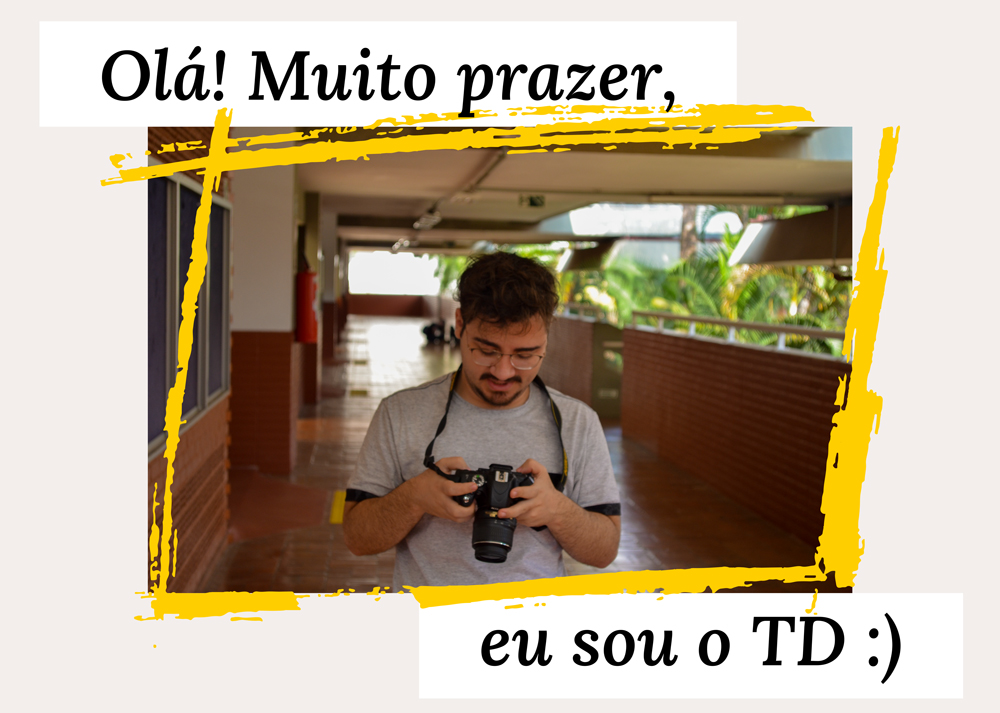
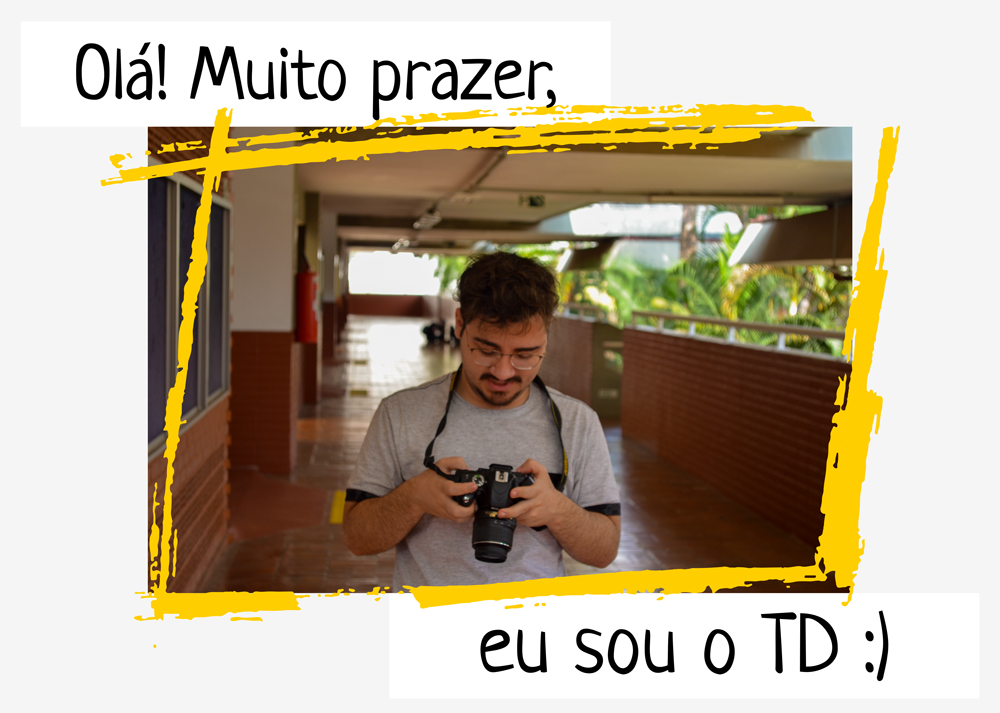
portfolio semi pronto para envio

Changed region(s): [[0.062, 0.0617, 0.682, 0.1851], [0.465, 0.8331, 0.899, 0.9565]]

diff --git a/layouts/portfolio-pt-br/index.html b/layouts/portfolio-pt-br/index.html
@@ -66,6 +66,7 @@
 
         <!-- ABOUT -->
         <div id="container-sobre">
+            <img src="/images/TD-Vadilho.jpg" alt="Foto do TD Vadilho, tirada por Bruno Scandolara">
             {{ .Content }}
         </div>
 
@@ -198,6 +199,7 @@
         document.getElementById("go-to-contact").classList.remove("active-menu");
     }
 
+
     /* SENDING MESSAGE */
     let flagOptionsContato = false;
     let invertArrow = function(){
@@ -276,69 +278,143 @@
         })
     })
 
-    //CRIANDO MIOLO
-    // Criando o botão prev 
-    let openProject = `<div id='container-openProject-and-arrows'>` 
-        + `<div id="container-prev-button-gallery-ilustracoes" onclick="changeSlideProj(-1)">
-            <div id="prev-button-gallery-ilustracoes">
-                <img src="/images/menu/prev-icon.png" alt="close" style='`+ naturalcoloricons +`'">
-            </div>
-        </div><div id="openProject">`
+    /* CONSTRUINDO O OPEN PROJECT */
+    let openLink = function(link){ //Abrir links do projeto (botões e hiperlinks chamam essa função)
+        window.open(link);
+    }
 
-    // Inserindo o conteúdo    
-    let itens = JSON.parse(document.getElementById(id).getAttribute('itens'));
-    for (let item of itens){
-        if (item.type == 'firstimage'){
-            openProject += '<div id="first-image"><img src="' + item.src + '" max-width="100%"  alt="'+ item.alt +'"  style="display:block; object-fit: contain; margin:'+item.margin+'" class="snackZoom '+ item.class +'" id="snackZoomId"/></div>'
+    window.addEventListener('load', ()=> { //Checa se já entrou na página com algum ID aberto
+        const id = new URLSearchParams(window.location.search).get('id'); 
+        if(id) {
+            abrirproj('', id);
         }
-        if (item.type == 'image'){
-            openProject += '<img src="' + item.src + '" max-width="100%"  alt="'+ item.alt +'"  style="display:block; object-fit: contain; margin:'+item.margin+'" class="snackZoom '+ item.class +'" id="snackZoomId"/>'
-        }
-        if (item.type == 'imageSide'){
-            openProject += '<div class="imagesSideBySide" margin:"'+item.margin+' column-gap:' + item.columngap +'">'
-            for(i=0; i < item.src.length; i++){
-                openProject += '<img src="' + item.src[i] + '" alt="'+ item.alt[i] +'"  style="display:block; object-fit: contain;margin-top:'+ item.imgmargintop[i] +'" class="snackZoom ' + item.class + '" id="snackZoomId"/>';
-            }
-            openProject += '</div>'
-        }
-        if (item.type == 'imagebuythis'){
-            openProject += '<img src="' + item.src + '" max-width="100%"  alt="'+ item.alt +'"  style="display:block; object-fit: contain; margin:'+item.margin+'; filter:'+item.filter+'" class="snackZoom '+ item.class +'" id="snackZoomId" onclick="openLink(`'+ lojalink +'`);"/>'
-        }
-        if (item.type == 'video') {
-            openProject += '<div style="margin:'+ item.margin +';" class="iframecontainer" id="snackZoomId"><iframe src="' + item.src + '" alt="' + item.alt + '" allow="accelerometer; autoplay; clipboard-write; encrypted-media; gyroscope; picture-in-picture; web-share" frameorder="0" vspace="0" hspace="0" marginwidth="0" marginheight="0" width="100%" style="margin: 0 0 0 0" frameBorder="0" scrolling="no" style="border: 0px" allowfullscreen></iframe></div>'
-        }
-        if(item.type == 'textleft'){
-            openProject += '<div class="container-text-inside-proj-left"><p class="'+ item.class +'"; style="color:'+ item.textcolor + '!important; margin:'+ item.margin +';text-align:'+ item.textalign +' !important' +';font-style:'+ item.fontstyle +' !important">'+ item.text +'</p></div>'
-        }
-        if(item.type == 'textcenter'){
-            openProject += '<div class="container-text-inside-proj-center"><p class="'+ item.class +'"; style="color:'+ item.textcolor + '!important; margin:'+ item.margin +';text-align:'+ item.textalign +' !important' +';font-style:'+ item.fontstyle +' !important">'+ item.text +'</p></div>'
-        }
-        if(item.type == 'textright'){
-            openProject += '<div class="container-text-inside-proj-right"><p class="'+ item.class +'"; style="color:'+ item.textcolor + '!important; margin:'+ item.margin +';text-align:'+ item.textalign +' !important' +';font-style:'+ item.fontstyle +' !important">'+ item.text +'</p></div>'
+    });
+
+    let updateURLNoDisturbing = function(id){ // Setando a URL para que aas pessoas possam compartilhar
+        const newURL = '?id=' + id; 
+        history.replaceState({}, "New Page", newURL);
+    }
+
+    let lastResize = 0;
+    let changePositionOfCloseButton = function() { 
+        if(Date.now() - lastResize > 500) {
+            lastResize = Date.now();
+
+            rect = document.getElementById('openProject').getBoundingClientRect();
+            
+            buttonClose = document.getElementById('topButtonsContainer');
+            console.log(rect.x, rect.width, buttonClose.clientWidth);
+            buttonClose.style.paddingLeft = `${rect.x + rect.width - buttonClose.scrollWidth}px`;
         }
     }
 
-    // Criando o botão next 
-    openProject += ` </div>
-        <div id="container-next-button-gallery-ilustracoes" onclick="changeSlideProj(1)">
-            <div id="next-button-gallery-ilustracoes">
-                <img src="/images/menu/next-icon.png" alt="close" style='`+ naturalcoloricons +`'">
+    let isBgWhite = function(bg){
+        if(bg == '#ffffff'){
+            $("#container-next-button-gallery-ilustracoes").hover(function() {
+                $(this).addClass("mix-blend-hard-light");
+            }, function() {
+                $(this).removeClass("mix-blend-hard-light");
+            });
+
+            $("#container-prev-button-gallery-ilustracoes").hover(function() {
+                $(this).addClass("mix-blend-hard-light");
+            }, function() {
+                $(this).removeClass("mix-blend-hard-light");
+            });
+
+            $(".buttonCloseProject").hover(function() {
+                $(this).addClass("mix-blend-hard-light");
+            }, function() {
+                $(this).removeClass("mix-blend-hard-light");
+            });
+        } 
+    }
+
+    let createSnackbar = function(id) {   
+        //CRIANDO SNACKBAR DA ONDE VAI ENTRAR OS TRABALHOS
+        let snackbar = document.createElement('div');
+        snackbar.classList = 'snackbar';
+        snackbar.id = 'snackbarId';
+        document.body.style.cssText = 'overflow: hidden';
+        snackbar.style.backgroundColor = document.getElementById(id).getAttribute('backgroundcolor');
+        let backgroundOfProject = document.getElementById(id).getAttribute('backgroundcolor');
+        let naturalcoloricons =  document.getElementById(id).getAttribute('naturalcoloricons');
+
+        //CRIANDO TOP PART
+        let topButtonsContainer = "";
+        let lojalink = document.getElementById(id).getAttribute('lojalink');
+        
+        topButtonsContainer = 
+        `<div id='container-top-buttons-snackbarproj'>
+            <div class='buttonCloseProject' onclick="closeSnackbarProj()">
+                <img src="/images/menu/close-things.png" alt="close" style='`+ naturalcoloricons +`'">
             </div>
-        </div> 
-    </div>`;
-    
-    snackbar.innerHTML = topButtonsContainer + `<div id="container-openProject"> `+  openProject  + `</div> `; // Snackbar totalmente construida
-    document.body.append(snackbar); // Adiciona a snack ao body
+        </div>`
 
-    /*  realignVertical("openProject"); */
-    setupSliderGaleria();// Slide da galeria no mobile
-    updateURLNoDisturbing(id);
-    isBgWhite(backgroundOfProject);
+        //CRIANDO MIOLO
+        // Criando o botão prev 
+        let openProject = `<div id='container-openProject-and-arrows'>` 
+            + `<div id="container-prev-button-gallery-ilustracoes" onclick="changeSlideProj(-1)">
+                <div id="prev-button-gallery-ilustracoes">
+                    <img src="/images/menu/prev-icon.png" alt="close" style='`+ naturalcoloricons +`'">
+                </div>
+            </div><div id="openProject">`
 
-    document.addEventListener('keydown', (ev) => {
-    if((ev.key == 'Escape') && (flagProjAberto == true)){
-        closeSnackbarProj();
-    }})
+        // Inserindo o conteúdo    
+        let itens = JSON.parse(document.getElementById(id).getAttribute('itens'));
+        for (let item of itens){
+            if (item.type == 'firstimage'){
+                openProject += '<div id="first-image"><img src="' + item.src + '" max-width="100%"  alt="'+ item.alt +'"  style="display:block; object-fit: contain; margin:'+item.margin+'" class="snackZoom '+ item.class +'" id="snackZoomId"/></div>'
+            }
+            if (item.type == 'image'){
+                openProject += '<img src="' + item.src + '" max-width="100%"  alt="'+ item.alt +'"  style="display:block; object-fit: contain; margin:'+item.margin+'" class="snackZoom '+ item.class +'" id="snackZoomId"/>'
+            }
+            if (item.type == 'imageSide'){
+                openProject += '<div class="imagesSideBySide" margin:"'+item.margin+' column-gap:' + item.columngap +'">'
+                for(i=0; i < item.src.length; i++){
+                    openProject += '<img src="' + item.src[i] + '" alt="'+ item.alt[i] +'"  style="display:block; object-fit: contain;margin-top:'+ item.imgmargintop[i] +'" class="snackZoom ' + item.class + '" id="snackZoomId"/>';
+                }
+                openProject += '</div>'
+            }
+            if (item.type == 'imagebuythis'){
+                openProject += '<img src="' + item.src + '" max-width="100%"  alt="'+ item.alt +'"  style="display:block; object-fit: contain; margin:'+item.margin+'; filter:'+item.filter+'" class="snackZoom '+ item.class +'" id="snackZoomId" onclick="openLink(`'+ lojalink +'`);"/>'
+            }
+            if (item.type == 'video') {
+                openProject += '<div style="margin:'+ item.margin +';" class="iframecontainer" id="snackZoomId"><iframe src="' + item.src + '" alt="' + item.alt + '" allow="accelerometer; autoplay; clipboard-write; encrypted-media; gyroscope; picture-in-picture; web-share" frameorder="0" vspace="0" hspace="0" marginwidth="0" marginheight="0" width="100%" style="margin: 0 0 0 0" frameBorder="0" scrolling="no" style="border: 0px" allowfullscreen></iframe></div>'
+            }
+            if(item.type == 'textleft'){
+                openProject += '<div class="container-text-inside-proj-left"><p class="'+ item.class +'"; style="color:'+ item.textcolor + '!important; margin:'+ item.margin +';text-align:'+ item.textalign +' !important' +';font-style:'+ item.fontstyle +' !important">'+ item.text +'</p></div>'
+            }
+            if(item.type == 'textcenter'){
+                openProject += '<div class="container-text-inside-proj-center"><p class="'+ item.class +'"; style="color:'+ item.textcolor + '!important; margin:'+ item.margin +';text-align:'+ item.textalign +' !important' +';font-style:'+ item.fontstyle +' !important">'+ item.text +'</p></div>'
+            }
+            if(item.type == 'textright'){
+                openProject += '<div class="container-text-inside-proj-right"><p class="'+ item.class +'"; style="color:'+ item.textcolor + '!important; margin:'+ item.margin +';text-align:'+ item.textalign +' !important' +';font-style:'+ item.fontstyle +' !important">'+ item.text +'</p></div>'
+            }
+        }
+
+        // Criando o botão next 
+        openProject += ` </div>
+            <div id="container-next-button-gallery-ilustracoes" onclick="changeSlideProj(1)">
+                <div id="next-button-gallery-ilustracoes">
+                    <img src="/images/menu/next-icon.png" alt="close" style='`+ naturalcoloricons +`'">
+                </div>
+            </div> 
+        </div>`;
+        
+        snackbar.innerHTML = topButtonsContainer + `<div id="container-openProject"> `+  openProject  + `</div> `; // Snackbar totalmente construida
+        document.body.append(snackbar); // Adiciona a snack ao body
+
+       /*  realignVertical("openProject"); */
+        setupSliderGaleria();// Slide da galeria no mobile
+        updateURLNoDisturbing(id);
+        isBgWhite(backgroundOfProject);
+
+        document.addEventListener('keydown', (ev) => {
+        if((ev.key == 'Escape') && (flagProjAberto == true)){
+            closeSnackbarProj();
+        }})
+    }
 
     /* Slide no mobile */
     let setupSliderGaleria = function() {

diff --git a/layouts/_default/index.html b/layouts/_default/index.html
@@ -42,7 +42,7 @@
                             <img id="home-novidade-1" src="{{  .Params.Imageheader }}" alt="{{  .Params.Imageheaderalt }}" style="padding-top: {{ .Params.Paddingtop | safeCSS }}">
                         </div>
                     {{ else }}
-                        <div id="item-bottom-esq" onclick="window.location.href='{{ .RelPermalink | safeURL }}'">
+                        <div id="item-bottom-esq" onclick="window.location.href='/blog/matutando/sobre-como-ler-mais-e-yata-yata-yata/'">
                             <div class="novidade-notice">
                                 <span>Novidade</span></div>
                             <div class="overlay-home-news"></div>
@@ -91,7 +91,7 @@
                             <img id="home-novidade-3" src="{{  .Params.Imageheader }}" alt="{{  .Params.Imageheaderalt }}" style="padding-top: {{ .Params.Paddingtop | safeCSS }}">
                         </div>
                     {{ else }}
-                        <div id="item-bottom-dir" onclick="window.location.href='{{ .Permalink | safeURL }}'">
+                        <div id="item-bottom-dir" onclick="window.location.href='/historietas/historieta8/'">
                             <div class="novidade-notice">Novidade</div>
                             <div class="overlay-home-news"></div>
                             <div class="organizer-home-news-text">

diff --git a/layouts/portfolio-en/index.html b/layouts/portfolio-en/index.html
@@ -40,12 +40,11 @@
                 </div>
             </div>
             <div class="container-header-text" id="container-header-text">
-                <p><i>Ilustro porque pouquíssimas coisas na vida me fazem sentir tão vivo quanto Ilustrar. No final das contas, acho que só quero ser criativo,
-                    e criar narrativas visuais para compartilhar</i>
+                <p><i>
+                    I illustrate because very few things in life make me feel as alive as Illustrating. At the end of the day, I guess I just want to be creative, and create visual narratives to share</i>
                 </p>
             </div>
         </div>
-
 
         <!-- PORTFOLIO -->
         <span id="array" idsArray="{{ .Params.ProjetosIds }}"></span>
@@ -67,6 +66,8 @@
 
         <!-- ABOUT -->
         <div id="container-sobre">
+            <img src="/images/TD-Vadilho-en.jpg" alt="A picture of TD Vadilho, photo taken by Bruno Scandolara">
+            {{ .Content }}
         </div>
 
         <!-- CONTATO -->

diff --git a/layouts/historietas/single.html b/layouts/historietas/single.html
@@ -116,10 +116,12 @@
         <div class="paperOverlay"></div>
         {{- partial "listademateriais" . -}}
         {{- partial "emailing" . -}}
-        <div id="container-comentarios-section">
-            <h1>Comentários</h1>
-            <p class="comentarios-avisos">Para comentar, clique em entrar e escolha se quer comentar como anônimo ou criando um usuário. Depois escreva a sua mensagem e voilà :)</p>
-            {{- partial "comentario" . }}
+        <div id="just-a-color">
+            <div id="container-comentarios-section">
+                <h1>Comentários</h1>
+                <p class="comentarios-avisos">Para comentar, clique em entrar e escolha se quer comentar como anônimo ou criando um usuário. Depois escreva a sua mensagem e voilà :)</p>
+                {{- partial "comentario" . }}
+            </div>
         </div>
         {{- partial "rodape.html" . }}
     </div>

diff --git a/layouts/blog/single.html b/layouts/blog/single.html
@@ -92,10 +92,12 @@
         <div class="paperOverlay"></div>
         {{- partial "listademateriais" . -}}
         {{- partial "emailing" . -}}
-        <div id="container-comentarios-section">
-            <h1>Comentários</h1>
-            <p class="comentarios-avisos">Para comentar, clique em entrar e escolha se quer comentar como anônimo ou criando um usuário. Depois escreva a sua mensagem e voilà :)</p>
-            {{- partial "comentario" . }}
+        <div id="just-a-color">
+            <div id="container-comentarios-section">
+                <h1>Comentários</h1>
+                <p class="comentarios-avisos">Para comentar, clique em entrar e escolha se quer comentar como anônimo ou criando um usuário. Depois escreva a sua mensagem e voilà :)</p>
+                {{- partial "comentario" . }}
+            </div>
         </div>
         {{- partial "rodape.html" . }}
     </div>

diff --git a/static/assets/css/portfolio.css b/static/assets/css/portfolio.css
@@ -12,6 +12,26 @@
     color: #F9E4CB;
 }
 
+#container-sobre{
+    flex-direction: column;
+    width: 100%;
+    align-items: center;
+    margin-bottom: 100px;
+}
+
+#container-sobre p{
+    max-width: 800px;
+    margin-bottom: 20px;
+}
+
+#container-sobre p:first-of-type{
+    margin-top: 20px;
+}
+
+#container-sobre p:last-of-type{
+    margin-bottom: 0px;
+}
+
 #container-sobre, #contato-form-container{
     display: none;
 }
@@ -79,7 +99,7 @@
   
     .button-language{
         background: #A9C3CF;
-        padding: 5px;
+        padding: 5px 8px;
         border-radius: 5px;
         color: #193E4F;
     }
@@ -201,4 +221,8 @@
 
 .container-partes-rodape, #container-all-rodape a{
     color: var(--whitesmoke-color) !important;
+}
+
+#organizer-galeria-ilustracoes{
+    margin: 0px auto 100px auto;
 }

diff --git a/static/assets/css/geral.css b/static/assets/css/geral.css
@@ -1,5 +1,5 @@
 :root{
-    --main-bg-color: #F3EEEC;
+    --main-bg-color: #F5f5f5; 
     --main-accent: #B3C0F5;
     
     --support-bg-color: #b3c0f5;
@@ -23,7 +23,7 @@
 
     --blueish-bg-color: #202025fa;
 
-    --single-post-h1-color: #F3EEEC;
+    --single-post-h1-color: #F5f5f5;
 
     --highlight-color-text: #554c58;
     --dark-color-text: #131313;
@@ -591,12 +591,17 @@ p>a:hover, figcaption>a:hover{
 }
 
 /* -----------------------Comentários-------------------------- */
+#just-a-color{
+    background: #eee;
+    padding: 100px 0px;
+}
+
 #container-comentarios-section{
     max-width: 900px;
     display: flex;
     flex-direction: column;
     align-items: center;
-    margin: 100px auto;
+    margin: 0px auto;
     padding: 0px 20px;
     background: #eee;
 }

diff --git a/layouts/partials/htmlhead.html b/layouts/partials/htmlhead.html
@@ -11,7 +11,7 @@
         
         <title>
             {{- if .IsHome -}}
-                {{ .Site.Title }} | Escritor e Ilustrador
+                {{ .Site.Title }}
             {{- else if .Page.Title -}}
                 {{ .Page.Title }} | {{ .Site.Title }}
             {{- else -}}
